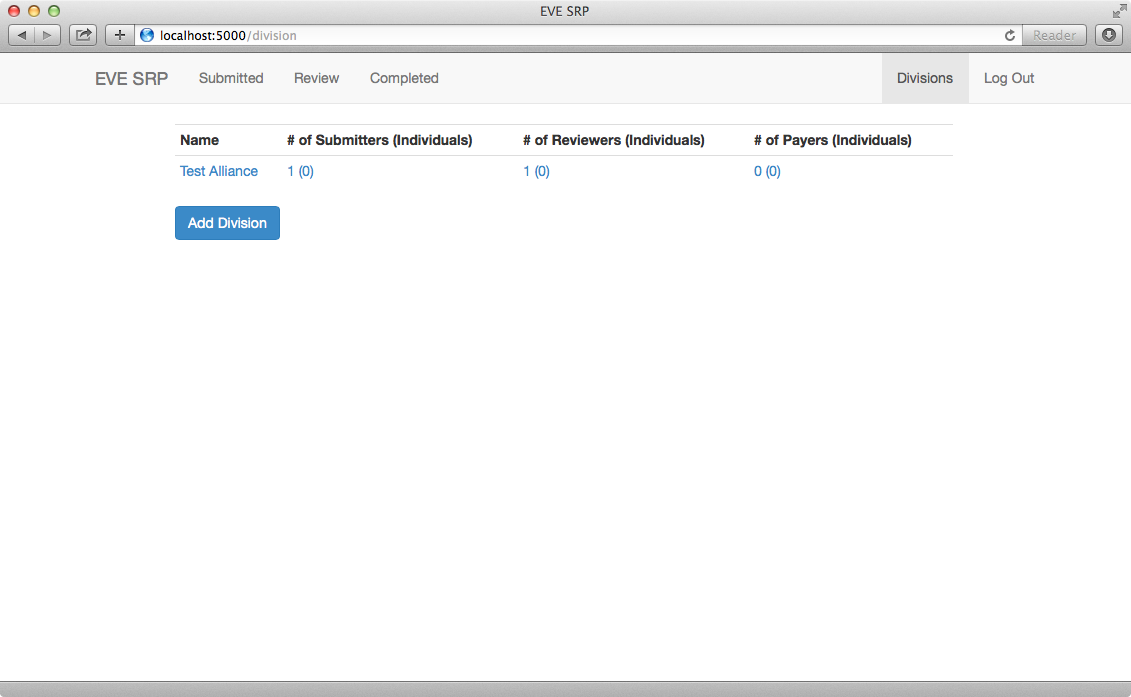
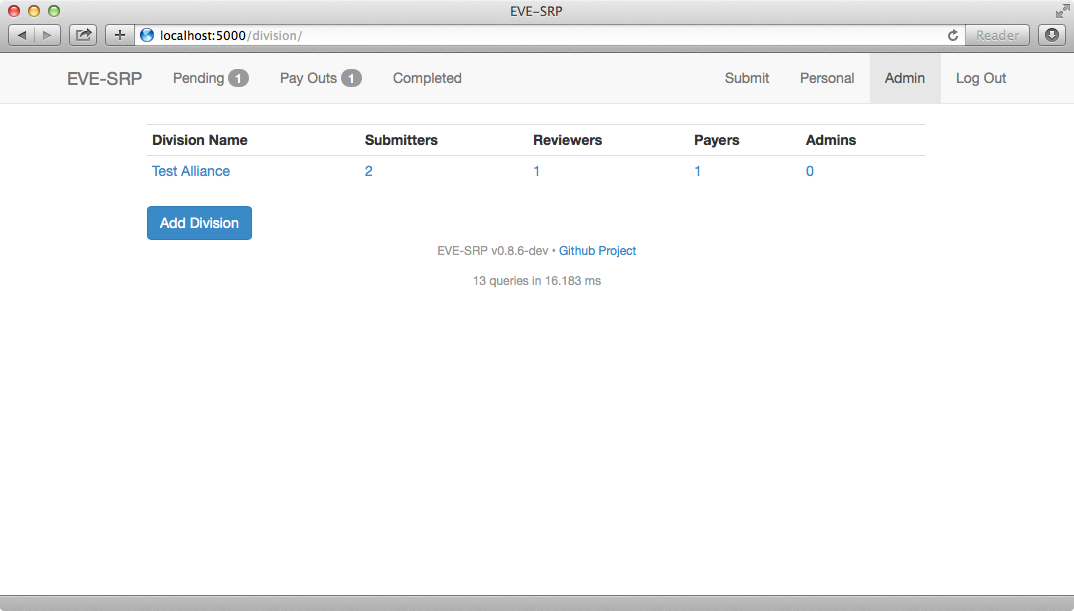
Add end-user administrator guide

diff --git a/doc/users.rst b/doc/users.rst
@@ -139,17 +139,31 @@ Administering Divisions
 
 A fresh installation of EVE-SRP will not have any divisions configured, so
 one of the first actions after installation should be to configure divisions.
-If you have either the global administrator or a divisional administrator
-permission, you will have a "Divisions" button at the top of the screen.
+If you have either the site administrator or administrator in a division,
+you will have an "Admin" button at the top of the screen. Clicking it will list
+all of the divisions you can administer. 
 
 .. image:: images/list_divisions.png
 
-To add a division, click the "Add Division" button, enter a name on the form,
-then click the "Create Division" button. Afterwards you will be taken to the
-administration page for the new division. To grant a permission to a group,
-enter the group name then click the "Add Group" button. The process for adding
-users is identical. User and group names are case sensitive!
+If you are a site administrator you will also see a button for creating
+divisions. To add a division, click the "Add Division" button, enter a name on
+the form, then click the "Create Division" button.
 
-.. image:: images/division_detail.png
+After creating a new division or clicking one of the links in the division
+listing, you will see the administration page for that division.
+To grant a permission to a user or group, start typing the name of that user or
+group in the text box corresponding to that permission. It will autocomplete
+their name if the app knows about it (i.e. if they've logged in before or a
+user in that group has logged in before).
 
-To revoke privileges to a user or group, click the "X" in the "Remove" column.
+.. image:: images/grant_permission.png
+
+Either click the correct entry, or finish typing it out and click the "Add"
+button. To revoke privileges to a user or group, click the "X" in the "Remove"
+column.
+
+.. image:: images/permission_granted.png
+
+Divisions can be configured to have certain request attributes to be changed
+into links. This is covered in more detail in the (TODO) transformers section.
+
